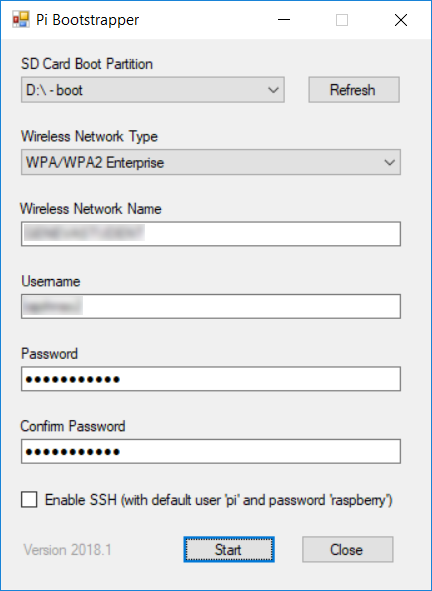
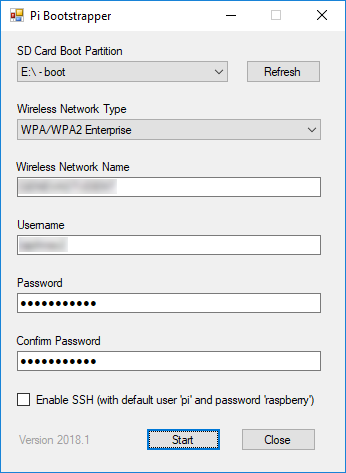
Incremented version number and updated screenshot

diff --git a/src/MainForm.Designer.cs b/src/MainForm.Designer.cs
@@ -44,7 +44,7 @@
             this.startButton = new System.Windows.Forms.Button();
             this.closeButton = new System.Windows.Forms.Button();
             this.sshCheckBox = new System.Windows.Forms.CheckBox();
-            this.label7 = new System.Windows.Forms.Label();
+            this.versionLabel = new System.Windows.Forms.Label();
             this.SuspendLayout();
             // 
             // label1
@@ -199,15 +199,15 @@
             this.sshCheckBox.Text = "Enable SSH (with default user \'pi\' and password \'raspberry\')";
             this.sshCheckBox.UseVisualStyleBackColor = true;
             // 
-            // label7
+            // versionLabel
             // 
-            this.label7.AutoSize = true;
-            this.label7.Enabled = false;
-            this.label7.Location = new System.Drawing.Point(15, 402);
-            this.label7.Name = "label7";
-            this.label7.Size = new System.Drawing.Size(78, 13);
-            this.label7.TabIndex = 11;
-            this.label7.Text = "Version 2018.1";
+            this.versionLabel.AutoSize = true;
+            this.versionLabel.Enabled = false;
+            this.versionLabel.Location = new System.Drawing.Point(15, 402);
+            this.versionLabel.Name = "versionLabel";
+            this.versionLabel.Size = new System.Drawing.Size(78, 13);
+            this.versionLabel.TabIndex = 11;
+            this.versionLabel.Text = "Version";
             // 
             // MainForm
             // 
@@ -216,7 +216,7 @@
             this.AutoScaleMode = System.Windows.Forms.AutoScaleMode.Font;
             this.CancelButton = this.closeButton;
             this.ClientSize = new System.Drawing.Size(344, 441);
-            this.Controls.Add(this.label7);
+            this.Controls.Add(this.versionLabel);
             this.Controls.Add(this.sshCheckBox);
             this.Controls.Add(this.closeButton);
             this.Controls.Add(this.startButton);
@@ -260,7 +260,7 @@
         private System.Windows.Forms.Button startButton;
         private System.Windows.Forms.Button closeButton;
         private System.Windows.Forms.CheckBox sshCheckBox;
-        private System.Windows.Forms.Label label7;
+        private System.Windows.Forms.Label versionLabel;
     }
 }
 

diff --git a/src/MainForm.cs b/src/MainForm.cs
@@ -9,6 +9,7 @@ using System.Threading.Tasks;
 using System.Windows.Forms;
 using System.Globalization;
 using System.IO;
+using System.Reflection;
 
 namespace PiBootstrapper
 {
@@ -79,10 +80,10 @@ namespace PiBootstrapper
             if (writeConfig)
             {
                 var regionInfo = new RegionInfo(CultureInfo.CurrentCulture.LCID);
-                string country = regionInfo.TwoLetterISORegionName;
+                string countryCode = regionInfo.TwoLetterISORegionName;
 
                 string configText = "ctrl_interface=DIR=/var/run/wpa_supplicant GROUP=netdev\n"
-                    + "update_config=1\ncountry=" + country + "\n\n" + networkConfig + "\n";
+                    + "update_config=1\ncountry=" + countryCode + "\n\n" + networkConfig + "\n";
                 File.WriteAllText(wpaSupplicantConf, configText);
             }
 
@@ -172,10 +173,11 @@ namespace PiBootstrapper
 
         private void MainForm_Load(object sender, EventArgs e)
         {
-            UpdateDriveList();
-
+            string appVersion = Assembly.GetExecutingAssembly().GetName().Version.ToString();
+            versionLabel.Text += " " + appVersion.TrimEnd('.', '0');
             typeComboBox.SelectedIndex = 0;
 
+            UpdateDriveList();
             UpdateGuiState();
         }
     }

diff --git a/src/Properties/AssemblyInfo.cs b/src/Properties/AssemblyInfo.cs
@@ -10,7 +10,7 @@ using System.Runtime.InteropServices;
 [assembly: AssemblyConfiguration("")]
 [assembly: AssemblyCompany("")]
 [assembly: AssemblyProduct("PiBootstrapper")]
-[assembly: AssemblyCopyright("Copyright ©  2018")]
+[assembly: AssemblyCopyright("Copyright © 2018 Timothy Johnson")]
 [assembly: AssemblyTrademark("")]
 [assembly: AssemblyCulture("")]
 
@@ -32,5 +32,5 @@ using System.Runtime.InteropServices;
 // You can specify all the values or you can default the Build and Revision Numbers
 // by using the '*' as shown below:
 // [assembly: AssemblyVersion("1.0.*")]
-[assembly: AssemblyVersion("1.0.0.0")]
-[assembly: AssemblyFileVersion("1.0.0.0")]
+[assembly: AssemblyVersion("2018.1.1")]
+//[assembly: AssemblyFileVersion("1.0.0.0")]
